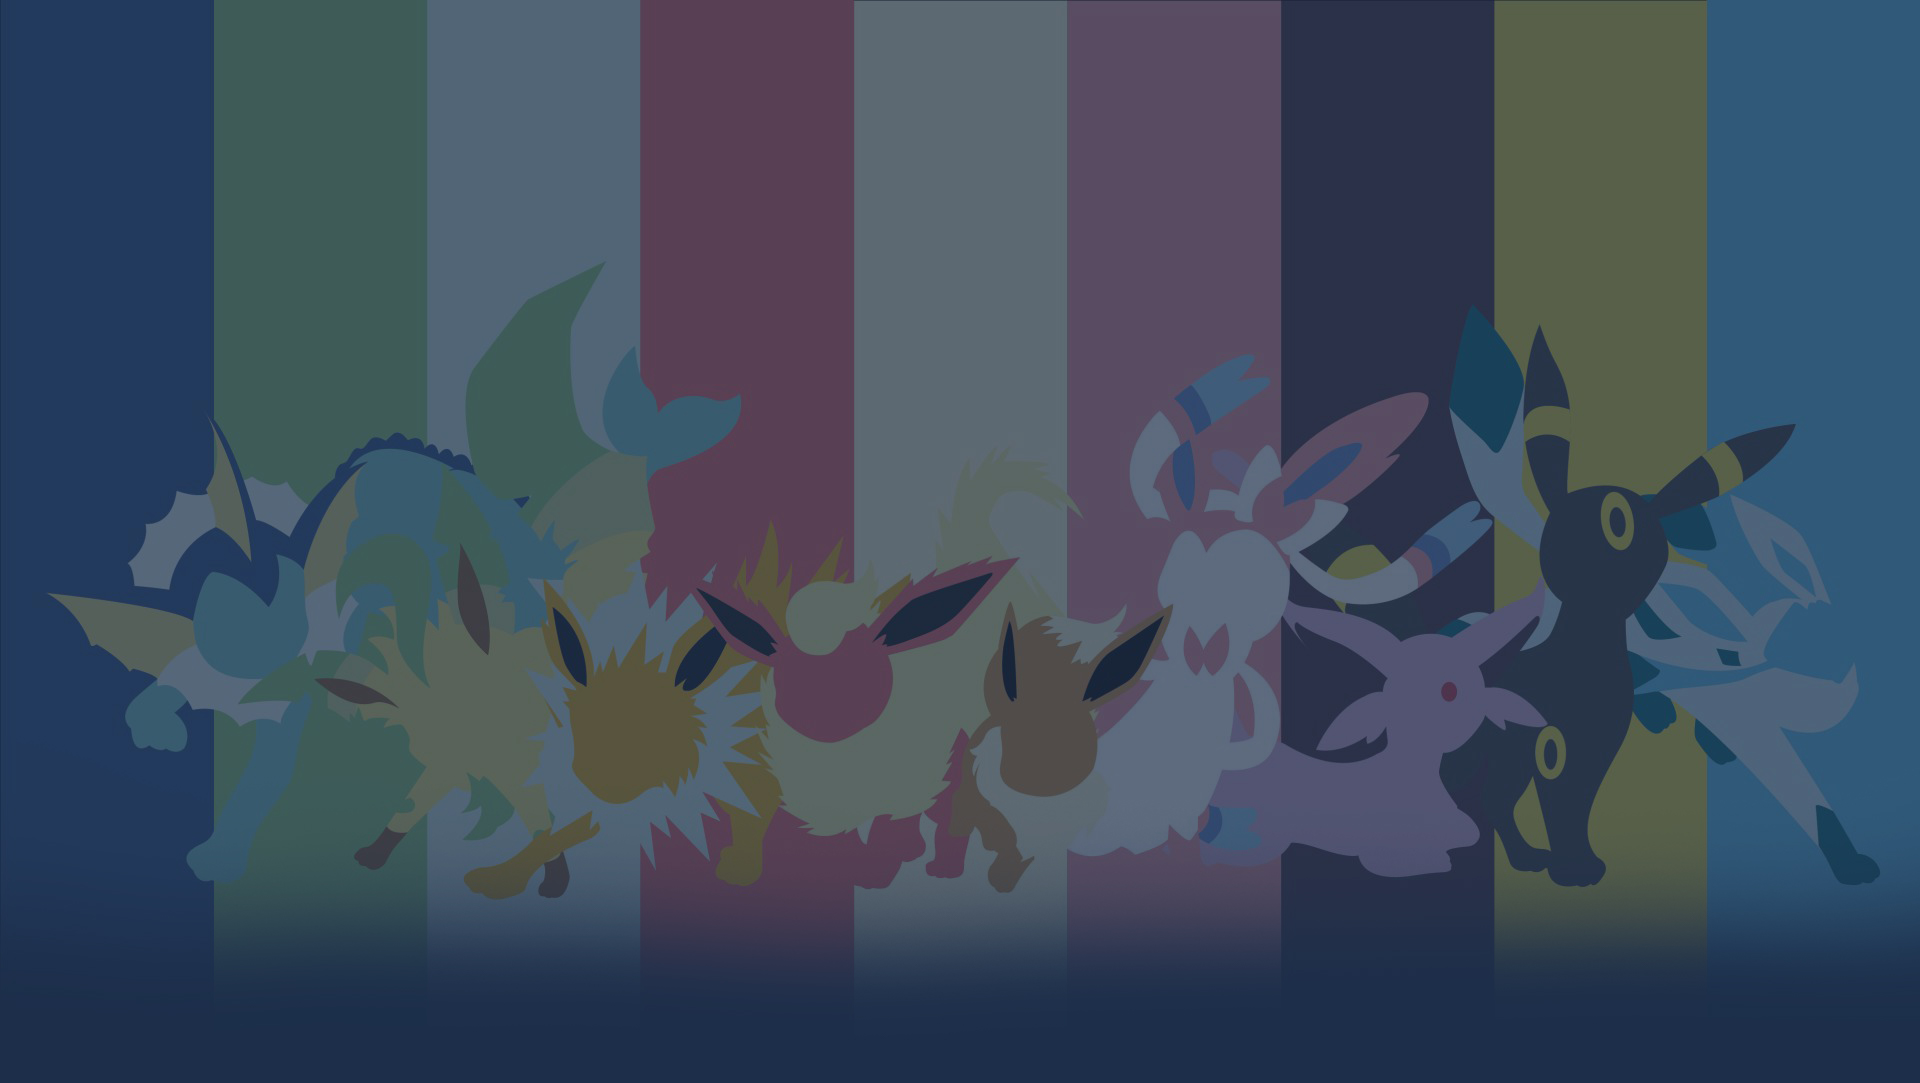
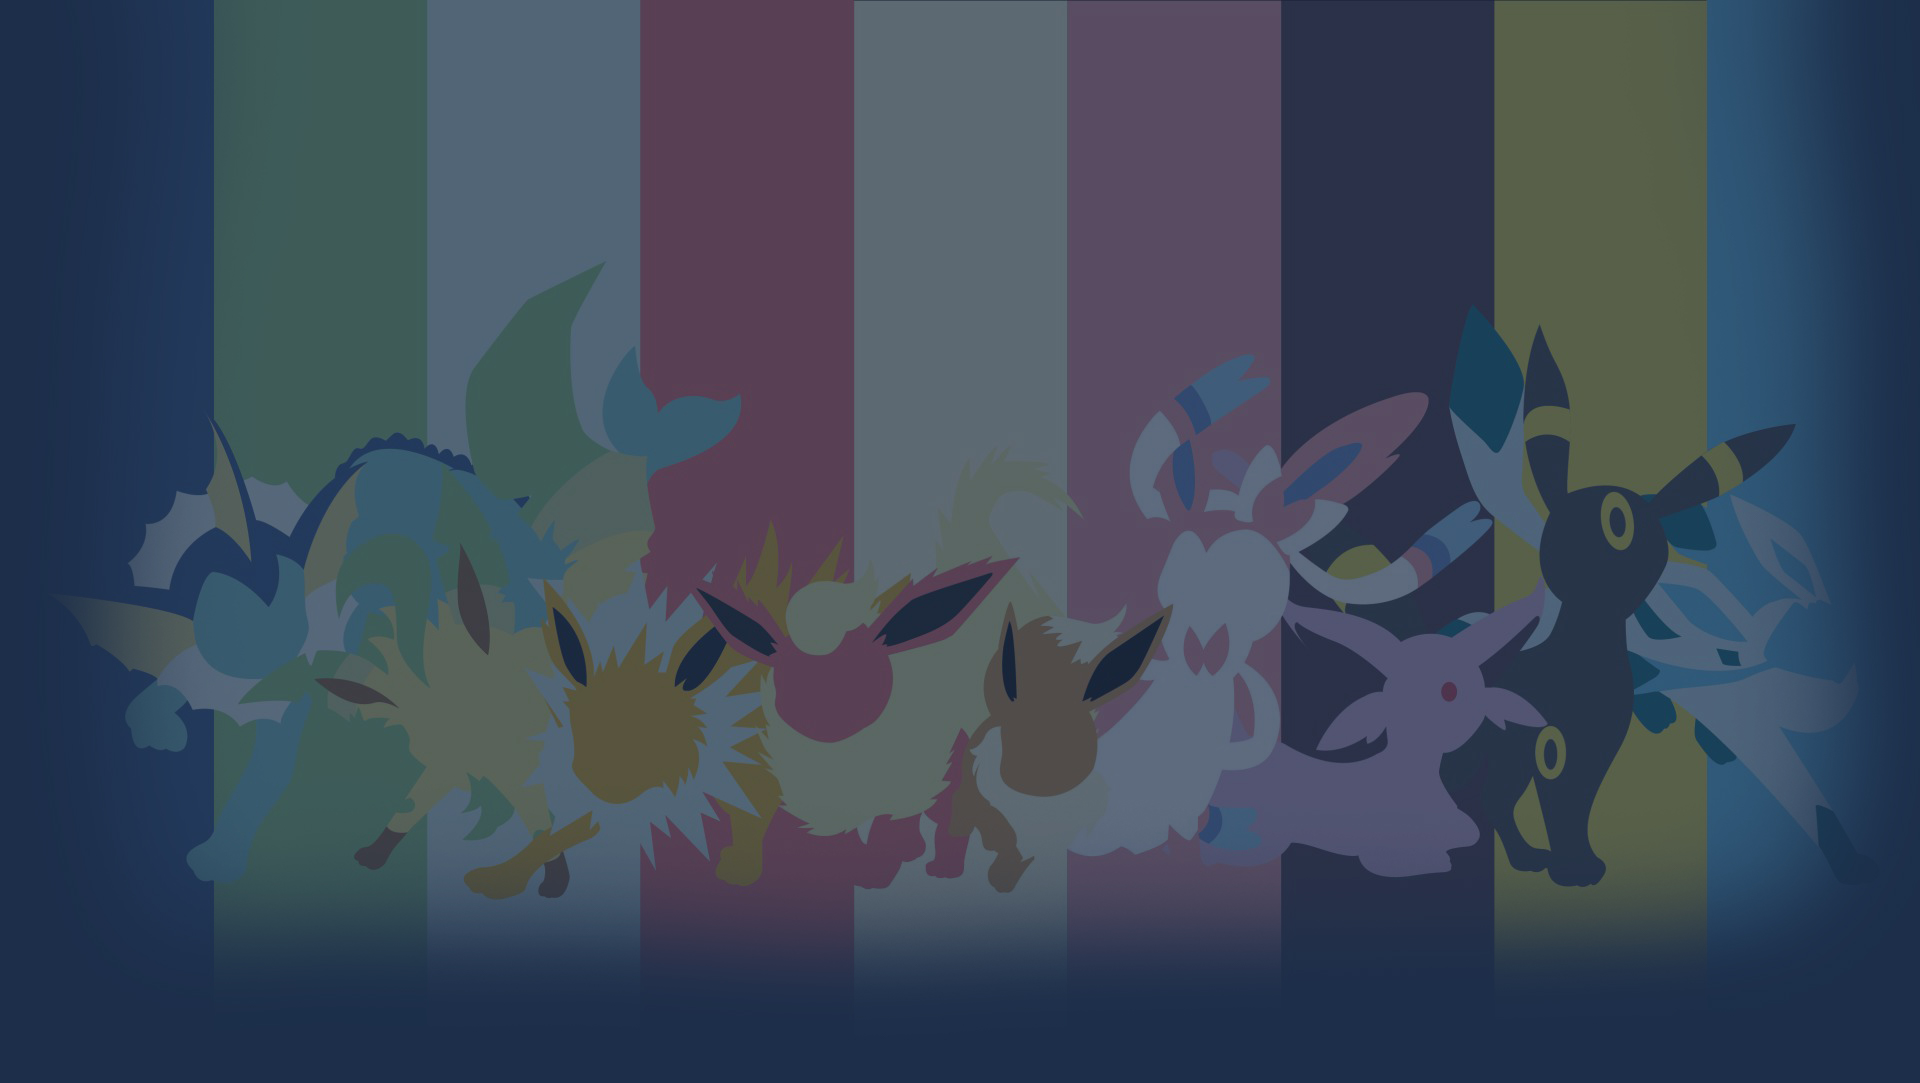
More formatting on pokemon team

Changed region(s): [[0.9375, 0.0, 1.0, 0.8532], [0.0312, 0.5485, 0.0625, 0.6094]]

diff --git a/src/app/pokemon-team-icon/pokemon-team-icon.component.html b/src/app/pokemon-team-icon/pokemon-team-icon.component.html
@@ -1,9 +1,19 @@
-<div class="row my-3" *ngFor="let userPokemon of this.userPokemonTeam; index as i">
+<div class="row pokemon-team-icon-block" *ngFor="let userPokemon of this.userPokemonTeam; index as i">
     <div class="col-4">
         <img class="user-pokemon-image" src="{{userPokemon.url}}" width="100%">
     </div>
     <div class="col-8">
         <h4>{{userPokemon.name}}</h4>
         <p>Level {{userPokemon.level}} &nbsp;|&nbsp; XP to next lvl</p>
+        <div class="progress mb-1">
+            <div class="progress-bar bg-success" role="progressbar" [style.width]="userPokemon.current_hp + '%'" aria-valuemin="0" aria-valuenow="{{userPokemon.current_hp}}" aria-valuemax="userPokemon.max_hp">
+                HP: {{userPokemon.current_hp}}/{{userPokemon.max_hp}}
+            </div>
+        </div>
+        <div class="progress">
+            <div class="progress-bar bg-primary" role="progressbar" [style.width]="userPokemon.current_hp + '%'" aria-valuemin="0" aria-valuenow="{{userPokemon.current_hp}}" aria-valuemax="userPokemon.max_hp">
+                Experience: {{userPokemon.current_xp}}/{{userPokemon.xp_to_level_up}}
+            </div>
+        </div>
     </div>
 </div>

diff --git a/src/styles.css b/src/styles.css
@@ -67,16 +67,10 @@ body {
     background-image: url('assets/background-overlay-gradient.jpg');
     background-attachment: fixed;
     background-repeat: no-repeat;
-    background-size: cover;
-    background-position: center;
+    background-size: 80%;
+    background-position: top;
     font-size: 1em;
-    line-height: 1.5;
-}
-
-input:focus,
-textarea:focus,
-select:focus {
-    outline: none;
+    line-height: 1;
 }
 
 .above-background {
@@ -87,4 +81,8 @@ h1 {
     font-weight: 400;
     font-size: 26pt;
     opacity: 60%;
+}
+
+*:focus {
+    outline: none;
 }

diff --git a/src/app/pokemon-team-icon/pokemon-team-icon.component.ts b/src/app/pokemon-team-icon/pokemon-team-icon.component.ts
@@ -27,10 +27,18 @@ export class UserPokemon {
   name: string;
   url: string;
   level: number;
+  max_hp: number;
+  current_hp: number;
+  xp_to_next_lvl: number;
+  current_xp: number;
 
   constructor(name: string, url: string, level: number) {
     this.name = name;
     this.url = url;
     this.level = level;
+    this.max_hp = 100;
+    this.current_hp = 80;
+    this.xp_to_next_lvl = 200;
+    this.current_xp = 62;
   }
 }

diff --git a/src/app/pokemon-team/pokemon-team.component.css b/src/app/pokemon-team/pokemon-team.component.css
@@ -1,4 +1,17 @@
 .pokemon-team-bg {
-    background-color: #1c2e4a;
+    background-color: #202b43;
     border-radius: 1em;
+}
+
+.team-name-block {
+    background: linear-gradient(to top, rgb(39, 54, 82) 0%, rgb(32, 43, 67) 100%);
+    border-radius: 1em 1em 0 0;
+    margin-left: -15px;
+    margin-right: -15px;
+    padding: 5px 15px 5px 15px;
+    box-shadow: white;
+}
+
+.progress {
+    padding-bottom: 3px;
 }

diff --git a/src/app/pokemon-team/pokemon-team.component.html b/src/app/pokemon-team/pokemon-team.component.html
@@ -1,6 +1,8 @@
-<div class="row pokemon-team-bg p-3">
+<div class="row pokemon-team-bg">
     <div class="col-12">
-        <h1>{{this.teamName}}</h1>
+        <div class="team-name-block">
+            <h1>{{this.teamName}}</h1>
+        </div>
         <app-pokemon-team-icon></app-pokemon-team-icon>
     </div>
 </div>

diff --git a/src/app/dashboard/dashboard.component.html b/src/app/dashboard/dashboard.component.html
@@ -1,6 +1,6 @@
-<div class="container">
+<div class="container" id="dashboard">
     <div class="row">
-        <div class="col-4">
+        <div class="col-4 pokemon-team-col">
             <app-pokemon-team></app-pokemon-team>
         </div>
     </div>

diff --git a/src/app/pokemon-team-icon/pokemon-team-icon.component.css b/src/app/pokemon-team-icon/pokemon-team-icon.component.css
@@ -2,3 +2,8 @@
     background-color: white;
     border-radius: 50%;
 }
+
+.pokemon-team-icon-block {
+    padding-top: 6px;
+    padding-bottom: 6px;
+}

diff --git a/src/app/dashboard/dashboard.component.css b/src/app/dashboard/dashboard.component.css
@@ -1,0 +1,3 @@
+.pokemon-team-col {
+    padding: 0;
+}
